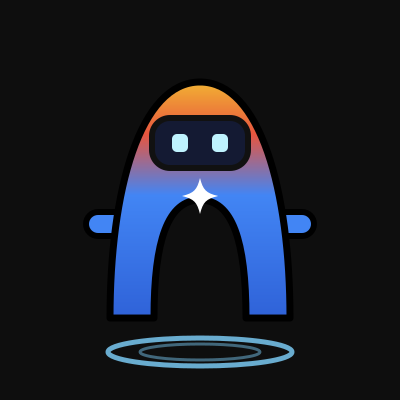
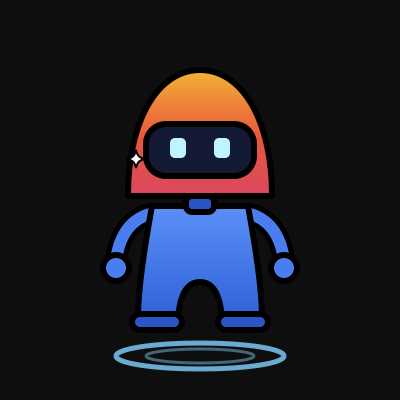
agy concept: humanoid robot, sparkle moved to an earring

Changed region(s): [[0.21, 0.18, 0.78, 0.93]]

diff --git a/art/saiyan/web/prompts.html b/art/saiyan/web/prompts.html
@@ -36,7 +36,7 @@ pre { white-space:pre-wrap; overflow-wrap:anywhere; background:var(--bg); border
 <p>Bộ prompt và ảnh mẫu để tạo các con mascot biến hình theo mức effort cho Claude, Codex và agy. Bấm ảnh để mở cỡ lớn, kéo thả vào ô chat, rồi dán prompt.</p>
 <section class="brief"><h2>Brief for the image model</h2><p>You are making a set of square anime power-up illustrations of three small mascots (Claude, Codex, agy), one image per card below. For each card: attach the listed reference images, use the prompt exactly, generate one image, and name it with the card title (for example claude-medium.png). Make the -base card of a mascot before its six levels and use that result as Image 1. Keep every image on a plain flat #0E0E0E background with no text.</p><button type="button" class="copy">Copy brief</button></section>
 <nav><a href="#claude">Claude</a><a href="#codex">Codex (GPT)</a><a href="#agy">agy</a></nav>
-<h2 id="claude">Claude · 4 cấp còn thiếu <small>sửa trên ảnh thân có sẵn</small></h2><article><h3>claude-medium</h3><div class="refs"><a href="3-than-gay.png" target="_blank"><img src="3-than-gay.png" alt="3-than-gay.png"><span>3-than-gay.png</span></a></div><pre>Keep the creature&#x27;s body EXACTLY as in the attached image: same body, muscles, arms, legs, eyes, black outline, size and position. Change ONLY the hair and the effects described here. Keep the plain flat #0E0E0E background and the same style. Hair and effects: Sharper spiky hair in a DEEP DARK GOLD. Only a thin golden outline glow and 2-3 tiny blue-white electric sparks near the hair. No flames.</pre><button type="button" class="copy">Copy prompt</button></article><article><h3>claude-high</h3><div class="refs"><a href="2-than-max.png" target="_blank"><img src="2-than-max.png" alt="2-than-max.png"><span>2-than-max.png</span></a></div><pre>Keep the creature&#x27;s body EXACTLY as in the attached image: same body, muscles, arms, legs, eyes, black outline, size and position. Change ONLY the hair and the effects described here. Keep the plain flat #0E0E0E background and the same style. Hair and effects: Very LONG golden-yellow spiky mane flowing down behind the body almost to the ground, no eyebrows. Only a thin golden outline glow and 4-5 small yellow electric sparks. Restrained.</pre><button type="button" class="copy">Copy prompt</button></article><article><h3>claude-xhigh</h3><div class="refs"><a href="2-than-max.png" target="_blank"><img src="2-than-max.png" alt="2-than-max.png"><span>2-than-max.png</span></a></div><pre>Keep the creature&#x27;s body EXACTLY as in the attached image: same body, muscles, arms, legs, eyes, black outline, size and position. Change ONLY the hair and the effects described here. Keep the plain flat #0E0E0E background and the same style. Hair and effects: SHORT spiky CRIMSON RED hair. A soft red-orange divine flame aura and a few red embers floating.</pre><button type="button" class="copy">Copy prompt</button></article><article><h3>claude-ultracode</h3><div class="refs"><a href="2-than-max.png" target="_blank"><img src="2-than-max.png" alt="2-than-max.png"><span>2-than-max.png</span></a></div><pre>Keep the creature&#x27;s body EXACTLY as in the attached image: same body, muscles, arms, legs, eyes, black outline, size and position. Change ONLY the hair and the effects described here. Keep the plain flat #0E0E0E background and the same style. Hair and effects: SHORT spiky SILVER-WHITE hair, eyes glow silver-white. A tall silvery-white and pale blue flame aura with floating light particles, calm and god-like, the most radiant of all.</pre><button type="button" class="copy">Copy prompt</button></article><h2 id="codex">Codex (GPT) <small>kiểu Cađíc: kiêu hãnh, khoanh tay, tóc dựng thẳng có mỏm chữ V trước trán</small></h2><article><h3>codex-base</h3><div class="refs"><a href="6-codex-mascot.png" target="_blank"><img src="6-codex-mascot.png" alt="6-codex-mascot.png"><span>6-codex-mascot.png</span></a><a href="4-mau-low.png" target="_blank"><img src="4-mau-low.png" alt="4-mau-low.png"><span>4-mau-low.png</span></a></div><pre>Image 1 is the mascot, Image 2 is a style reference. Redraw the Codex mascot in Image 1: a periwinkle-blue (#5B6EF0) robot with a puffy cloud-shaped head, a dark navy screen face showing a glowing cyan terminal prompt &#x27;&gt;_&#x27; as its eyes, a small round body with a smaller &#x27;&gt;_&#x27; on the chest, short arms and two short legs. Keep its shape, colours and face; no hair yet, standing calmly. Personality: the proud elite rival. Match the drawing style of Image 2 (outline weight, cel shading, background) but NOT its character. 2D anime power-up illustration, thick clean black outlines, flat cel shading with 2-3 tones, no gradients on the body, centred, full body, facing the viewer. Plain flat solid #0E0E0E background, nothing else, no text, no human, no existing anime character. Square 1:1 with margin around the figure.</pre><button type="button" class="copy">Copy prompt</button></article><article><h3>codex-low</h3><div class="refs"><em>(codex-base vừa tạo)</em><a href="4-mau-low.png" target="_blank"><img src="4-mau-low.png" alt="4-mau-low.png"><span>4-mau-low.png</span></a></div><pre>Image 1 is the mascot, Image 2 is a style reference for the power-up look only. Draw the mascot from Image 1 powering up, same face and colours. Make the body FAT and round, one even colour. Personality: the proud elite rival. Arms crossed, chin up, smug confident smirk. Hair always rises straight up like one tall flame with a sharp V-shaped widow&#x27;s peak at the forehead. The hair is a big anime power-up hairdo covering the WHOLE top of the head edge to edge - thick sharp spikes, darker shade side and lighter highlight side; never a small tuft or a crown. Short spiky GOLDEN-YELLOW hair. A calm thin golden outline glow. No lightning. 2D anime power-up illustration, thick clean black outlines, flat cel shading with 2-3 tones, no gradients on the body, centred, full body, facing the viewer. Plain flat solid #0E0E0E background, nothing else, no text, no human, no existing anime character. Square 1:1 with margin around the figure.</pre><button type="button" class="copy">Copy prompt</button></article><article><h3>codex-medium</h3><div class="refs"><em>(codex-base vừa tạo)</em><a href="5-mau-max.png" target="_blank"><img src="5-mau-max.png" alt="5-mau-max.png"><span>5-mau-max.png</span></a></div><pre>Image 1 is the mascot, Image 2 is a style reference for the power-up look only. Draw the mascot from Image 1 powering up, same face and colours. Make the body lean and toned with subtle muscles. Personality: the proud elite rival. Arms crossed, chin up, smug confident smirk. Hair always rises straight up like one tall flame with a sharp V-shaped widow&#x27;s peak at the forehead. The hair is a big anime power-up hairdo covering the WHOLE top of the head edge to edge - thick sharp spikes, darker shade side and lighter highlight side; never a small tuft or a crown. Sharper spiky hair in a DEEP DARK GOLD. Only a thin golden outline glow and 2-3 tiny blue-white electric sparks near the hair. No flames. 2D anime power-up illustration, thick clean black outlines, flat cel shading with 2-3 tones, no gradients on the body, centred, full body, facing the viewer. Plain flat solid #0E0E0E background, nothing else, no text, no human, no existing anime character. Square 1:1 with margin around the figure.</pre><button type="button" class="copy">Copy prompt</button></article><article><h3>codex-high</h3><div class="refs"><em>(codex-base vừa tạo)</em><a href="5-mau-max.png" target="_blank"><img src="5-mau-max.png" alt="5-mau-max.png"><span>5-mau-max.png</span></a></div><pre>Image 1 is the mascot, Image 2 is a style reference for the power-up look only. Draw the mascot from Image 1 powering up, same face and colours. Make the body HEAVILY MUSCULAR - big pecs, six-pack, bulging arms. Personality: the proud elite rival. Arms crossed, chin up, smug confident smirk. Hair always rises straight up like one tall flame with a sharp V-shaped widow&#x27;s peak at the forehead. The hair is a big anime power-up hairdo covering the WHOLE top of the head edge to edge - thick sharp spikes, darker shade side and lighter highlight side; never a small tuft or a crown. Very LONG golden-yellow spiky mane flowing down behind the body almost to the ground, no eyebrows. Only a thin golden outline glow and 4-5 small yellow electric sparks. Restrained. 2D anime power-up illustration, thick clean black outlines, flat cel shading with 2-3 tones, no gradients on the body, centred, full body, facing the viewer. Plain flat solid #0E0E0E background, nothing else, no text, no human, no existing anime character. Square 1:1 with margin around the figure.</pre><button type="button" class="copy">Copy prompt</button></article><article><h3>codex-xhigh</h3><div class="refs"><em>(codex-base vừa tạo)</em><a href="5-mau-max.png" target="_blank"><img src="5-mau-max.png" alt="5-mau-max.png"><span>5-mau-max.png</span></a></div><pre>Image 1 is the mascot, Image 2 is a style reference for the power-up look only. Draw the mascot from Image 1 powering up, same face and colours. Make the body HEAVILY MUSCULAR - big pecs, six-pack, bulging arms. Personality: the proud elite rival. Arms crossed, chin up, smug confident smirk. Hair always rises straight up like one tall flame with a sharp V-shaped widow&#x27;s peak at the forehead. The hair is a big anime power-up hairdo covering the WHOLE top of the head edge to edge - thick sharp spikes, darker shade side and lighter highlight side; never a small tuft or a crown. SHORT spiky CRIMSON RED hair. A soft red-orange divine flame aura and a few red embers floating. 2D anime power-up illustration, thick clean black outlines, flat cel shading with 2-3 tones, no gradients on the body, centred, full body, facing the viewer. Plain flat solid #0E0E0E background, nothing else, no text, no human, no existing anime character. Square 1:1 with margin around the figure.</pre><button type="button" class="copy">Copy prompt</button></article><article><h3>codex-max</h3><div class="refs"><em>(codex-base vừa tạo)</em><a href="5-mau-max.png" target="_blank"><img src="5-mau-max.png" alt="5-mau-max.png"><span>5-mau-max.png</span></a></div><pre>Image 1 is the mascot, Image 2 is a style reference for the power-up look only. Draw the mascot from Image 1 powering up, same face and colours. Make the body HEAVILY MUSCULAR - big pecs, six-pack, bulging arms. Personality: the proud elite rival. Arms crossed, chin up, smug confident smirk. Hair always rises straight up like one tall flame with a sharp V-shaped widow&#x27;s peak at the forehead. The hair is a big anime power-up hairdo covering the WHOLE top of the head edge to edge - thick sharp spikes, darker shade side and lighter highlight side; never a small tuft or a crown. SHORT upright spiky bright CYAN-BLUE hair. A sharp blue flame aura with a white core and glowing blue sparkles. 2D anime power-up illustration, thick clean black outlines, flat cel shading with 2-3 tones, no gradients on the body, centred, full body, facing the viewer. Plain flat solid #0E0E0E background, nothing else, no text, no human, no existing anime character. Square 1:1 with margin around the figure.</pre><button type="button" class="copy">Copy prompt</button></article><article><h3>codex-ultracode</h3><div class="refs"><em>(codex-base vừa tạo)</em><a href="5-mau-max.png" target="_blank"><img src="5-mau-max.png" alt="5-mau-max.png"><span>5-mau-max.png</span></a></div><pre>Image 1 is the mascot, Image 2 is a style reference for the power-up look only. Draw the mascot from Image 1 powering up, same face and colours. Make the body HEAVILY MUSCULAR - big pecs, six-pack, bulging arms. Personality: the proud elite rival. Arms crossed, chin up, smug confident smirk. Hair always rises straight up like one tall flame with a sharp V-shaped widow&#x27;s peak at the forehead. The hair is a big anime power-up hairdo covering the WHOLE top of the head edge to edge - thick sharp spikes, darker shade side and lighter highlight side; never a small tuft or a crown. SHORT spiky SILVER-WHITE hair, eyes glow silver-white. A tall silvery-white and pale blue flame aura with floating light particles, calm and god-like, the most radiant of all. 2D anime power-up illustration, thick clean black outlines, flat cel shading with 2-3 tones, no gradients on the body, centred, full body, facing the viewer. Plain flat solid #0E0E0E background, nothing else, no text, no human, no existing anime character. Square 1:1 with margin around the figure.</pre><button type="button" class="copy">Copy prompt</button></article><h2 id="agy">agy (Antigravity) <small>kiểu Broly: khổng lồ, cơ bắp cuồn cuộn, tóc dài hoang dã, hào quang ánh xanh lá</small></h2><article><h3>agy-base</h3><div class="refs"><a href="agy-concept.png" target="_blank"><img src="agy-concept.png" alt="agy-concept.png"><span>agy-concept.png</span></a><a href="4-mau-low.png" target="_blank"><img src="4-mau-low.png" alt="4-mau-low.png"><span>4-mau-low.png</span></a></div><pre>Image 1 is the mascot, Image 2 is a style reference. Redraw the agy mascot in Image 1: a tall rounded arch-shaped body like a smooth letter A without the crossbar (the two ends are its legs), a gradient from golden yellow and coral red on top into Google blue #4285F4 down the legs, a dark navy visor across the head with two glowing pale-cyan eyes, a white four-pointed sparkle on the chest, short arms, and a glowing cyan anti-gravity ring hovering under its feet. Keep its shape, colours and face; no hair yet, standing calmly. Personality: the legendary berserker. Match the drawing style of Image 2 (outline weight, cel shading, background) but NOT its character. 2D anime power-up illustration, thick clean black outlines, flat cel shading with 2-3 tones, no gradients on the body, centred, full body, facing the viewer. Plain flat solid #0E0E0E background, nothing else, no text, no human, no existing anime character. Square 1:1 with margin around the figure.</pre><button type="button" class="copy">Copy prompt</button></article><article><h3>agy-low</h3><div class="refs"><em>(agy-base vừa tạo)</em><a href="4-mau-low.png" target="_blank"><img src="4-mau-low.png" alt="4-mau-low.png"><span>4-mau-low.png</span></a></div><pre>Image 1 is the mascot, Image 2 is a style reference for the power-up look only. Draw the mascot from Image 1 powering up, same face and colours. Make the body FAT and round, one even colour. Personality: the legendary berserker. Hulking and towering, wild untamed spiky hair that sweeps back and outward, a gold ring around its neck and gold armbands, a faint lime-green tint at the edge of every aura, roaring with power. The hair is a big anime power-up hairdo covering the WHOLE top of the head edge to edge - thick sharp spikes, darker shade side and lighter highlight side; never a small tuft or a crown. Short spiky GOLDEN-YELLOW hair. A calm thin golden outline glow. No lightning. 2D anime power-up illustration, thick clean black outlines, flat cel shading with 2-3 tones, no gradients on the body, centred, full body, facing the viewer. Plain flat solid #0E0E0E background, nothing else, no text, no human, no existing anime character. Square 1:1 with margin around the figure.</pre><button type="button" class="copy">Copy prompt</button></article><article><h3>agy-medium</h3><div class="refs"><em>(agy-base vừa tạo)</em><a href="5-mau-max.png" target="_blank"><img src="5-mau-max.png" alt="5-mau-max.png"><span>5-mau-max.png</span></a></div><pre>Image 1 is the mascot, Image 2 is a style reference for the power-up look only. Draw the mascot from Image 1 powering up, same face and colours. Make the body lean and toned with subtle muscles. Personality: the legendary berserker. Hulking and towering, wild untamed spiky hair that sweeps back and outward, a gold ring around its neck and gold armbands, a faint lime-green tint at the edge of every aura, roaring with power. The hair is a big anime power-up hairdo covering the WHOLE top of the head edge to edge - thick sharp spikes, darker shade side and lighter highlight side; never a small tuft or a crown. Sharper spiky hair in a DEEP DARK GOLD. Only a thin golden outline glow and 2-3 tiny blue-white electric sparks near the hair. No flames. 2D anime power-up illustration, thick clean black outlines, flat cel shading with 2-3 tones, no gradients on the body, centred, full body, facing the viewer. Plain flat solid #0E0E0E background, nothing else, no text, no human, no existing anime character. Square 1:1 with margin around the figure.</pre><button type="button" class="copy">Copy prompt</button></article><article><h3>agy-high</h3><div class="refs"><em>(agy-base vừa tạo)</em><a href="5-mau-max.png" target="_blank"><img src="5-mau-max.png" alt="5-mau-max.png"><span>5-mau-max.png</span></a></div><pre>Image 1 is the mascot, Image 2 is a style reference for the power-up look only. Draw the mascot from Image 1 powering up, same face and colours. Make the body HEAVILY MUSCULAR - big pecs, six-pack, bulging arms. Personality: the legendary berserker. Hulking and towering, wild untamed spiky hair that sweeps back and outward, a gold ring around its neck and gold armbands, a faint lime-green tint at the edge of every aura, roaring with power. The hair is a big anime power-up hairdo covering the WHOLE top of the head edge to edge - thick sharp spikes, darker shade side and lighter highlight side; never a small tuft or a crown. Very LONG golden-yellow spiky mane flowing down behind the body almost to the ground, no eyebrows. Only a thin golden outline glow and 4-5 small yellow electric sparks. Restrained. 2D anime power-up illustration, thick clean black outlines, flat cel shading with 2-3 tones, no gradients on the body, centred, full body, facing the viewer. Plain flat solid #0E0E0E background, nothing else, no text, no human, no existing anime character. Square 1:1 with margin around the figure.</pre><button type="button" class="copy">Copy prompt</button></article><article><h3>agy-xhigh</h3><div class="refs"><em>(agy-base vừa tạo)</em><a href="5-mau-max.png" target="_blank"><img src="5-mau-max.png" alt="5-mau-max.png"><span>5-mau-max.png</span></a></div><pre>Image 1 is the mascot, Image 2 is a style reference for the power-up look only. Draw the mascot from Image 1 powering up, same face and colours. Make the body HEAVILY MUSCULAR - big pecs, six-pack, bulging arms. Personality: the legendary berserker. Hulking and towering, wild untamed spiky hair that sweeps back and outward, a gold ring around its neck and gold armbands, a faint lime-green tint at the edge of every aura, roaring with power. The hair is a big anime power-up hairdo covering the WHOLE top of the head edge to edge - thick sharp spikes, darker shade side and lighter highlight side; never a small tuft or a crown. SHORT spiky CRIMSON RED hair. A soft red-orange divine flame aura and a few red embers floating. 2D anime power-up illustration, thick clean black outlines, flat cel shading with 2-3 tones, no gradients on the body, centred, full body, facing the viewer. Plain flat solid #0E0E0E background, nothing else, no text, no human, no existing anime character. Square 1:1 with margin around the figure.</pre><button type="button" class="copy">Copy prompt</button></article><article><h3>agy-max</h3><div class="refs"><em>(agy-base vừa tạo)</em><a href="5-mau-max.png" target="_blank"><img src="5-mau-max.png" alt="5-mau-max.png"><span>5-mau-max.png</span></a></div><pre>Image 1 is the mascot, Image 2 is a style reference for the power-up look only. Draw the mascot from Image 1 powering up, same face and colours. Make the body HEAVILY MUSCULAR - big pecs, six-pack, bulging arms. Personality: the legendary berserker. Hulking and towering, wild untamed spiky hair that sweeps back and outward, a gold ring around its neck and gold armbands, a faint lime-green tint at the edge of every aura, roaring with power. The hair is a big anime power-up hairdo covering the WHOLE top of the head edge to edge - thick sharp spikes, darker shade side and lighter highlight side; never a small tuft or a crown. SHORT upright spiky bright CYAN-BLUE hair. A sharp blue flame aura with a white core and glowing blue sparkles. 2D anime power-up illustration, thick clean black outlines, flat cel shading with 2-3 tones, no gradients on the body, centred, full body, facing the viewer. Plain flat solid #0E0E0E background, nothing else, no text, no human, no existing anime character. Square 1:1 with margin around the figure.</pre><button type="button" class="copy">Copy prompt</button></article><article><h3>agy-ultracode</h3><div class="refs"><em>(agy-base vừa tạo)</em><a href="5-mau-max.png" target="_blank"><img src="5-mau-max.png" alt="5-mau-max.png"><span>5-mau-max.png</span></a></div><pre>Image 1 is the mascot, Image 2 is a style reference for the power-up look only. Draw the mascot from Image 1 powering up, same face and colours. Make the body HEAVILY MUSCULAR - big pecs, six-pack, bulging arms. Personality: the legendary berserker. Hulking and towering, wild untamed spiky hair that sweeps back and outward, a gold ring around its neck and gold armbands, a faint lime-green tint at the edge of every aura, roaring with power. The hair is a big anime power-up hairdo covering the WHOLE top of the head edge to edge - thick sharp spikes, darker shade side and lighter highlight side; never a small tuft or a crown. SHORT spiky SILVER-WHITE hair, eyes glow silver-white. A tall silvery-white and pale blue flame aura with floating light particles, calm and god-like, the most radiant of all. 2D anime power-up illustration, thick clean black outlines, flat cel shading with 2-3 tones, no gradients on the body, centred, full body, facing the viewer. Plain flat solid #0E0E0E background, nothing else, no text, no human, no existing anime character. Square 1:1 with margin around the figure.</pre><button type="button" class="copy">Copy prompt</button></article>
+<h2 id="claude">Claude · 4 cấp còn thiếu <small>sửa trên ảnh thân có sẵn</small></h2><article><h3>claude-medium</h3><div class="refs"><a href="3-than-gay.png" target="_blank"><img src="3-than-gay.png" alt="3-than-gay.png"><span>3-than-gay.png</span></a></div><pre>Keep the creature&#x27;s body EXACTLY as in the attached image: same body, muscles, arms, legs, eyes, black outline, size and position. Change ONLY the hair and the effects described here. Keep the plain flat #0E0E0E background and the same style. Hair and effects: Sharper spiky hair in a DEEP DARK GOLD. Only a thin golden outline glow and 2-3 tiny blue-white electric sparks near the hair. No flames.</pre><button type="button" class="copy">Copy prompt</button></article><article><h3>claude-high</h3><div class="refs"><a href="2-than-max.png" target="_blank"><img src="2-than-max.png" alt="2-than-max.png"><span>2-than-max.png</span></a></div><pre>Keep the creature&#x27;s body EXACTLY as in the attached image: same body, muscles, arms, legs, eyes, black outline, size and position. Change ONLY the hair and the effects described here. Keep the plain flat #0E0E0E background and the same style. Hair and effects: Very LONG golden-yellow spiky mane flowing down behind the body almost to the ground, no eyebrows. Only a thin golden outline glow and 4-5 small yellow electric sparks. Restrained.</pre><button type="button" class="copy">Copy prompt</button></article><article><h3>claude-xhigh</h3><div class="refs"><a href="2-than-max.png" target="_blank"><img src="2-than-max.png" alt="2-than-max.png"><span>2-than-max.png</span></a></div><pre>Keep the creature&#x27;s body EXACTLY as in the attached image: same body, muscles, arms, legs, eyes, black outline, size and position. Change ONLY the hair and the effects described here. Keep the plain flat #0E0E0E background and the same style. Hair and effects: SHORT spiky CRIMSON RED hair. A soft red-orange divine flame aura and a few red embers floating.</pre><button type="button" class="copy">Copy prompt</button></article><article><h3>claude-ultracode</h3><div class="refs"><a href="2-than-max.png" target="_blank"><img src="2-than-max.png" alt="2-than-max.png"><span>2-than-max.png</span></a></div><pre>Keep the creature&#x27;s body EXACTLY as in the attached image: same body, muscles, arms, legs, eyes, black outline, size and position. Change ONLY the hair and the effects described here. Keep the plain flat #0E0E0E background and the same style. Hair and effects: SHORT spiky SILVER-WHITE hair, eyes glow silver-white. A tall silvery-white and pale blue flame aura with floating light particles, calm and god-like, the most radiant of all.</pre><button type="button" class="copy">Copy prompt</button></article><h2 id="codex">Codex (GPT) <small>kiểu Cađíc: kiêu hãnh, khoanh tay, tóc dựng thẳng có mỏm chữ V trước trán</small></h2><article><h3>codex-base</h3><div class="refs"><a href="6-codex-mascot.png" target="_blank"><img src="6-codex-mascot.png" alt="6-codex-mascot.png"><span>6-codex-mascot.png</span></a><a href="4-mau-low.png" target="_blank"><img src="4-mau-low.png" alt="4-mau-low.png"><span>4-mau-low.png</span></a></div><pre>Image 1 is the mascot, Image 2 is a style reference. Redraw the Codex mascot in Image 1: a periwinkle-blue (#5B6EF0) robot with a puffy cloud-shaped head, a dark navy screen face showing a glowing cyan terminal prompt &#x27;&gt;_&#x27; as its eyes, a small round body with a smaller &#x27;&gt;_&#x27; on the chest, short arms and two short legs. Keep its shape, colours and face; no hair yet, standing calmly. Personality: the proud elite rival. Match the drawing style of Image 2 (outline weight, cel shading, background) but NOT its character. 2D anime power-up illustration, thick clean black outlines, flat cel shading with 2-3 tones, no gradients on the body, centred, full body, facing the viewer. Plain flat solid #0E0E0E background, nothing else, no text, no human, no existing anime character. Square 1:1 with margin around the figure.</pre><button type="button" class="copy">Copy prompt</button></article><article><h3>codex-low</h3><div class="refs"><em>(codex-base vừa tạo)</em><a href="4-mau-low.png" target="_blank"><img src="4-mau-low.png" alt="4-mau-low.png"><span>4-mau-low.png</span></a></div><pre>Image 1 is the mascot, Image 2 is a style reference for the power-up look only. Draw the mascot from Image 1 powering up, same face and colours. Make the body FAT and round, one even colour. Personality: the proud elite rival. Arms crossed, chin up, smug confident smirk. Hair always rises straight up like one tall flame with a sharp V-shaped widow&#x27;s peak at the forehead. The hair is a big anime power-up hairdo covering the WHOLE top of the head edge to edge - thick sharp spikes, darker shade side and lighter highlight side; never a small tuft or a crown. Short spiky GOLDEN-YELLOW hair. A calm thin golden outline glow. No lightning. 2D anime power-up illustration, thick clean black outlines, flat cel shading with 2-3 tones, no gradients on the body, centred, full body, facing the viewer. Plain flat solid #0E0E0E background, nothing else, no text, no human, no existing anime character. Square 1:1 with margin around the figure.</pre><button type="button" class="copy">Copy prompt</button></article><article><h3>codex-medium</h3><div class="refs"><em>(codex-base vừa tạo)</em><a href="5-mau-max.png" target="_blank"><img src="5-mau-max.png" alt="5-mau-max.png"><span>5-mau-max.png</span></a></div><pre>Image 1 is the mascot, Image 2 is a style reference for the power-up look only. Draw the mascot from Image 1 powering up, same face and colours. Make the body lean and toned with subtle muscles. Personality: the proud elite rival. Arms crossed, chin up, smug confident smirk. Hair always rises straight up like one tall flame with a sharp V-shaped widow&#x27;s peak at the forehead. The hair is a big anime power-up hairdo covering the WHOLE top of the head edge to edge - thick sharp spikes, darker shade side and lighter highlight side; never a small tuft or a crown. Sharper spiky hair in a DEEP DARK GOLD. Only a thin golden outline glow and 2-3 tiny blue-white electric sparks near the hair. No flames. 2D anime power-up illustration, thick clean black outlines, flat cel shading with 2-3 tones, no gradients on the body, centred, full body, facing the viewer. Plain flat solid #0E0E0E background, nothing else, no text, no human, no existing anime character. Square 1:1 with margin around the figure.</pre><button type="button" class="copy">Copy prompt</button></article><article><h3>codex-high</h3><div class="refs"><em>(codex-base vừa tạo)</em><a href="5-mau-max.png" target="_blank"><img src="5-mau-max.png" alt="5-mau-max.png"><span>5-mau-max.png</span></a></div><pre>Image 1 is the mascot, Image 2 is a style reference for the power-up look only. Draw the mascot from Image 1 powering up, same face and colours. Make the body HEAVILY MUSCULAR - big pecs, six-pack, bulging arms. Personality: the proud elite rival. Arms crossed, chin up, smug confident smirk. Hair always rises straight up like one tall flame with a sharp V-shaped widow&#x27;s peak at the forehead. The hair is a big anime power-up hairdo covering the WHOLE top of the head edge to edge - thick sharp spikes, darker shade side and lighter highlight side; never a small tuft or a crown. Very LONG golden-yellow spiky mane flowing down behind the body almost to the ground, no eyebrows. Only a thin golden outline glow and 4-5 small yellow electric sparks. Restrained. 2D anime power-up illustration, thick clean black outlines, flat cel shading with 2-3 tones, no gradients on the body, centred, full body, facing the viewer. Plain flat solid #0E0E0E background, nothing else, no text, no human, no existing anime character. Square 1:1 with margin around the figure.</pre><button type="button" class="copy">Copy prompt</button></article><article><h3>codex-xhigh</h3><div class="refs"><em>(codex-base vừa tạo)</em><a href="5-mau-max.png" target="_blank"><img src="5-mau-max.png" alt="5-mau-max.png"><span>5-mau-max.png</span></a></div><pre>Image 1 is the mascot, Image 2 is a style reference for the power-up look only. Draw the mascot from Image 1 powering up, same face and colours. Make the body HEAVILY MUSCULAR - big pecs, six-pack, bulging arms. Personality: the proud elite rival. Arms crossed, chin up, smug confident smirk. Hair always rises straight up like one tall flame with a sharp V-shaped widow&#x27;s peak at the forehead. The hair is a big anime power-up hairdo covering the WHOLE top of the head edge to edge - thick sharp spikes, darker shade side and lighter highlight side; never a small tuft or a crown. SHORT spiky CRIMSON RED hair. A soft red-orange divine flame aura and a few red embers floating. 2D anime power-up illustration, thick clean black outlines, flat cel shading with 2-3 tones, no gradients on the body, centred, full body, facing the viewer. Plain flat solid #0E0E0E background, nothing else, no text, no human, no existing anime character. Square 1:1 with margin around the figure.</pre><button type="button" class="copy">Copy prompt</button></article><article><h3>codex-max</h3><div class="refs"><em>(codex-base vừa tạo)</em><a href="5-mau-max.png" target="_blank"><img src="5-mau-max.png" alt="5-mau-max.png"><span>5-mau-max.png</span></a></div><pre>Image 1 is the mascot, Image 2 is a style reference for the power-up look only. Draw the mascot from Image 1 powering up, same face and colours. Make the body HEAVILY MUSCULAR - big pecs, six-pack, bulging arms. Personality: the proud elite rival. Arms crossed, chin up, smug confident smirk. Hair always rises straight up like one tall flame with a sharp V-shaped widow&#x27;s peak at the forehead. The hair is a big anime power-up hairdo covering the WHOLE top of the head edge to edge - thick sharp spikes, darker shade side and lighter highlight side; never a small tuft or a crown. SHORT upright spiky bright CYAN-BLUE hair. A sharp blue flame aura with a white core and glowing blue sparkles. 2D anime power-up illustration, thick clean black outlines, flat cel shading with 2-3 tones, no gradients on the body, centred, full body, facing the viewer. Plain flat solid #0E0E0E background, nothing else, no text, no human, no existing anime character. Square 1:1 with margin around the figure.</pre><button type="button" class="copy">Copy prompt</button></article><article><h3>codex-ultracode</h3><div class="refs"><em>(codex-base vừa tạo)</em><a href="5-mau-max.png" target="_blank"><img src="5-mau-max.png" alt="5-mau-max.png"><span>5-mau-max.png</span></a></div><pre>Image 1 is the mascot, Image 2 is a style reference for the power-up look only. Draw the mascot from Image 1 powering up, same face and colours. Make the body HEAVILY MUSCULAR - big pecs, six-pack, bulging arms. Personality: the proud elite rival. Arms crossed, chin up, smug confident smirk. Hair always rises straight up like one tall flame with a sharp V-shaped widow&#x27;s peak at the forehead. The hair is a big anime power-up hairdo covering the WHOLE top of the head edge to edge - thick sharp spikes, darker shade side and lighter highlight side; never a small tuft or a crown. SHORT spiky SILVER-WHITE hair, eyes glow silver-white. A tall silvery-white and pale blue flame aura with floating light particles, calm and god-like, the most radiant of all. 2D anime power-up illustration, thick clean black outlines, flat cel shading with 2-3 tones, no gradients on the body, centred, full body, facing the viewer. Plain flat solid #0E0E0E background, nothing else, no text, no human, no existing anime character. Square 1:1 with margin around the figure.</pre><button type="button" class="copy">Copy prompt</button></article><h2 id="agy">agy (Antigravity) <small>kiểu Broly: khổng lồ, cơ bắp cuồn cuộn, tóc dài hoang dã, hào quang ánh xanh lá</small></h2><article><h3>agy-base</h3><div class="refs"><a href="agy-concept.png" target="_blank"><img src="agy-concept.png" alt="agy-concept.png"><span>agy-concept.png</span></a><a href="4-mau-low.png" target="_blank"><img src="4-mau-low.png" alt="4-mau-low.png"><span>4-mau-low.png</span></a></div><pre>Image 1 is the mascot, Image 2 is a style reference. Redraw the agy mascot in Image 1: a small humanoid robot with a tall rounded dome head (the top of a letter A) in a golden yellow to coral red gradient, a dark navy visor with two glowing pale-cyan eyes, a short neck, a Google-blue (#4285F4) body whose two legs form an arch, rounded arms with ball hands, a tiny white four-pointed sparkle stud on the side of the head like an earring, and a glowing cyan anti-gravity ring hovering under its feet. Keep its shape, colours and face; no hair yet, standing calmly. Personality: the legendary berserker. Match the drawing style of Image 2 (outline weight, cel shading, background) but NOT its character. 2D anime power-up illustration, thick clean black outlines, flat cel shading with 2-3 tones, no gradients on the body, centred, full body, facing the viewer. Plain flat solid #0E0E0E background, nothing else, no text, no human, no existing anime character. Square 1:1 with margin around the figure.</pre><button type="button" class="copy">Copy prompt</button></article><article><h3>agy-low</h3><div class="refs"><em>(agy-base vừa tạo)</em><a href="4-mau-low.png" target="_blank"><img src="4-mau-low.png" alt="4-mau-low.png"><span>4-mau-low.png</span></a></div><pre>Image 1 is the mascot, Image 2 is a style reference for the power-up look only. Draw the mascot from Image 1 powering up, same face and colours. Make the body FAT and round, one even colour. Personality: the legendary berserker. Hulking and towering, wild untamed spiky hair that sweeps back and outward, a gold ring around its neck and gold armbands, a faint lime-green tint at the edge of every aura, roaring with power. The hair is a big anime power-up hairdo covering the WHOLE top of the head edge to edge - thick sharp spikes, darker shade side and lighter highlight side; never a small tuft or a crown. Short spiky GOLDEN-YELLOW hair. A calm thin golden outline glow. No lightning. 2D anime power-up illustration, thick clean black outlines, flat cel shading with 2-3 tones, no gradients on the body, centred, full body, facing the viewer. Plain flat solid #0E0E0E background, nothing else, no text, no human, no existing anime character. Square 1:1 with margin around the figure.</pre><button type="button" class="copy">Copy prompt</button></article><article><h3>agy-medium</h3><div class="refs"><em>(agy-base vừa tạo)</em><a href="5-mau-max.png" target="_blank"><img src="5-mau-max.png" alt="5-mau-max.png"><span>5-mau-max.png</span></a></div><pre>Image 1 is the mascot, Image 2 is a style reference for the power-up look only. Draw the mascot from Image 1 powering up, same face and colours. Make the body lean and toned with subtle muscles. Personality: the legendary berserker. Hulking and towering, wild untamed spiky hair that sweeps back and outward, a gold ring around its neck and gold armbands, a faint lime-green tint at the edge of every aura, roaring with power. The hair is a big anime power-up hairdo covering the WHOLE top of the head edge to edge - thick sharp spikes, darker shade side and lighter highlight side; never a small tuft or a crown. Sharper spiky hair in a DEEP DARK GOLD. Only a thin golden outline glow and 2-3 tiny blue-white electric sparks near the hair. No flames. 2D anime power-up illustration, thick clean black outlines, flat cel shading with 2-3 tones, no gradients on the body, centred, full body, facing the viewer. Plain flat solid #0E0E0E background, nothing else, no text, no human, no existing anime character. Square 1:1 with margin around the figure.</pre><button type="button" class="copy">Copy prompt</button></article><article><h3>agy-high</h3><div class="refs"><em>(agy-base vừa tạo)</em><a href="5-mau-max.png" target="_blank"><img src="5-mau-max.png" alt="5-mau-max.png"><span>5-mau-max.png</span></a></div><pre>Image 1 is the mascot, Image 2 is a style reference for the power-up look only. Draw the mascot from Image 1 powering up, same face and colours. Make the body HEAVILY MUSCULAR - big pecs, six-pack, bulging arms. Personality: the legendary berserker. Hulking and towering, wild untamed spiky hair that sweeps back and outward, a gold ring around its neck and gold armbands, a faint lime-green tint at the edge of every aura, roaring with power. The hair is a big anime power-up hairdo covering the WHOLE top of the head edge to edge - thick sharp spikes, darker shade side and lighter highlight side; never a small tuft or a crown. Very LONG golden-yellow spiky mane flowing down behind the body almost to the ground, no eyebrows. Only a thin golden outline glow and 4-5 small yellow electric sparks. Restrained. 2D anime power-up illustration, thick clean black outlines, flat cel shading with 2-3 tones, no gradients on the body, centred, full body, facing the viewer. Plain flat solid #0E0E0E background, nothing else, no text, no human, no existing anime character. Square 1:1 with margin around the figure.</pre><button type="button" class="copy">Copy prompt</button></article><article><h3>agy-xhigh</h3><div class="refs"><em>(agy-base vừa tạo)</em><a href="5-mau-max.png" target="_blank"><img src="5-mau-max.png" alt="5-mau-max.png"><span>5-mau-max.png</span></a></div><pre>Image 1 is the mascot, Image 2 is a style reference for the power-up look only. Draw the mascot from Image 1 powering up, same face and colours. Make the body HEAVILY MUSCULAR - big pecs, six-pack, bulging arms. Personality: the legendary berserker. Hulking and towering, wild untamed spiky hair that sweeps back and outward, a gold ring around its neck and gold armbands, a faint lime-green tint at the edge of every aura, roaring with power. The hair is a big anime power-up hairdo covering the WHOLE top of the head edge to edge - thick sharp spikes, darker shade side and lighter highlight side; never a small tuft or a crown. SHORT spiky CRIMSON RED hair. A soft red-orange divine flame aura and a few red embers floating. 2D anime power-up illustration, thick clean black outlines, flat cel shading with 2-3 tones, no gradients on the body, centred, full body, facing the viewer. Plain flat solid #0E0E0E background, nothing else, no text, no human, no existing anime character. Square 1:1 with margin around the figure.</pre><button type="button" class="copy">Copy prompt</button></article><article><h3>agy-max</h3><div class="refs"><em>(agy-base vừa tạo)</em><a href="5-mau-max.png" target="_blank"><img src="5-mau-max.png" alt="5-mau-max.png"><span>5-mau-max.png</span></a></div><pre>Image 1 is the mascot, Image 2 is a style reference for the power-up look only. Draw the mascot from Image 1 powering up, same face and colours. Make the body HEAVILY MUSCULAR - big pecs, six-pack, bulging arms. Personality: the legendary berserker. Hulking and towering, wild untamed spiky hair that sweeps back and outward, a gold ring around its neck and gold armbands, a faint lime-green tint at the edge of every aura, roaring with power. The hair is a big anime power-up hairdo covering the WHOLE top of the head edge to edge - thick sharp spikes, darker shade side and lighter highlight side; never a small tuft or a crown. SHORT upright spiky bright CYAN-BLUE hair. A sharp blue flame aura with a white core and glowing blue sparkles. 2D anime power-up illustration, thick clean black outlines, flat cel shading with 2-3 tones, no gradients on the body, centred, full body, facing the viewer. Plain flat solid #0E0E0E background, nothing else, no text, no human, no existing anime character. Square 1:1 with margin around the figure.</pre><button type="button" class="copy">Copy prompt</button></article><article><h3>agy-ultracode</h3><div class="refs"><em>(agy-base vừa tạo)</em><a href="5-mau-max.png" target="_blank"><img src="5-mau-max.png" alt="5-mau-max.png"><span>5-mau-max.png</span></a></div><pre>Image 1 is the mascot, Image 2 is a style reference for the power-up look only. Draw the mascot from Image 1 powering up, same face and colours. Make the body HEAVILY MUSCULAR - big pecs, six-pack, bulging arms. Personality: the legendary berserker. Hulking and towering, wild untamed spiky hair that sweeps back and outward, a gold ring around its neck and gold armbands, a faint lime-green tint at the edge of every aura, roaring with power. The hair is a big anime power-up hairdo covering the WHOLE top of the head edge to edge - thick sharp spikes, darker shade side and lighter highlight side; never a small tuft or a crown. SHORT spiky SILVER-WHITE hair, eyes glow silver-white. A tall silvery-white and pale blue flame aura with floating light particles, calm and god-like, the most radiant of all. 2D anime power-up illustration, thick clean black outlines, flat cel shading with 2-3 tones, no gradients on the body, centred, full body, facing the viewer. Plain flat solid #0E0E0E background, nothing else, no text, no human, no existing anime character. Square 1:1 with margin around the figure.</pre><button type="button" class="copy">Copy prompt</button></article>
 </main>
 <script>
 for (const b of document.querySelectorAll('.copy')) b.addEventListener('click', async () => {

diff --git a/art/saiyan/web/make.py b/art/saiyan/web/make.py
@@ -29,10 +29,10 @@ CHAR = {
               "Personality: the proud elite rival. Arms crossed, chin up, smug confident smirk. Hair always rises straight up like "
               "one tall flame with a sharp V-shaped widow's peak at the forehead."),
     "agy": ("agy (Antigravity)", "kiểu Broly: khổng lồ, cơ bắp cuồn cuộn, tóc dài hoang dã, hào quang ánh xanh lá",
-            "the agy mascot in Image 1: a tall rounded arch-shaped body like a smooth letter A without the crossbar (the two ends "
-            "are its legs), a gradient from golden yellow and coral red on top into Google blue #4285F4 down the legs, a dark navy "
-            "visor across the head with two glowing pale-cyan eyes, a white four-pointed sparkle on the chest, short arms, and a "
-            "glowing cyan anti-gravity ring hovering under its feet",
+            "the agy mascot in Image 1: a small humanoid robot with a tall rounded dome head (the top of a letter A) in a golden "
+            "yellow to coral red gradient, a dark navy visor with two glowing pale-cyan eyes, a short neck, a Google-blue (#4285F4) "
+            "body whose two legs form an arch, rounded arms with ball hands, a tiny white four-pointed sparkle stud on the side of "
+            "the head like an earring, and a glowing cyan anti-gravity ring hovering under its feet",
             "Personality: the legendary berserker. Hulking and towering, wild untamed spiky hair that sweeps back and outward, "
             "a gold ring around its neck and gold armbands, a faint lime-green tint at the edge of every aura, roaring with power."),
 }
